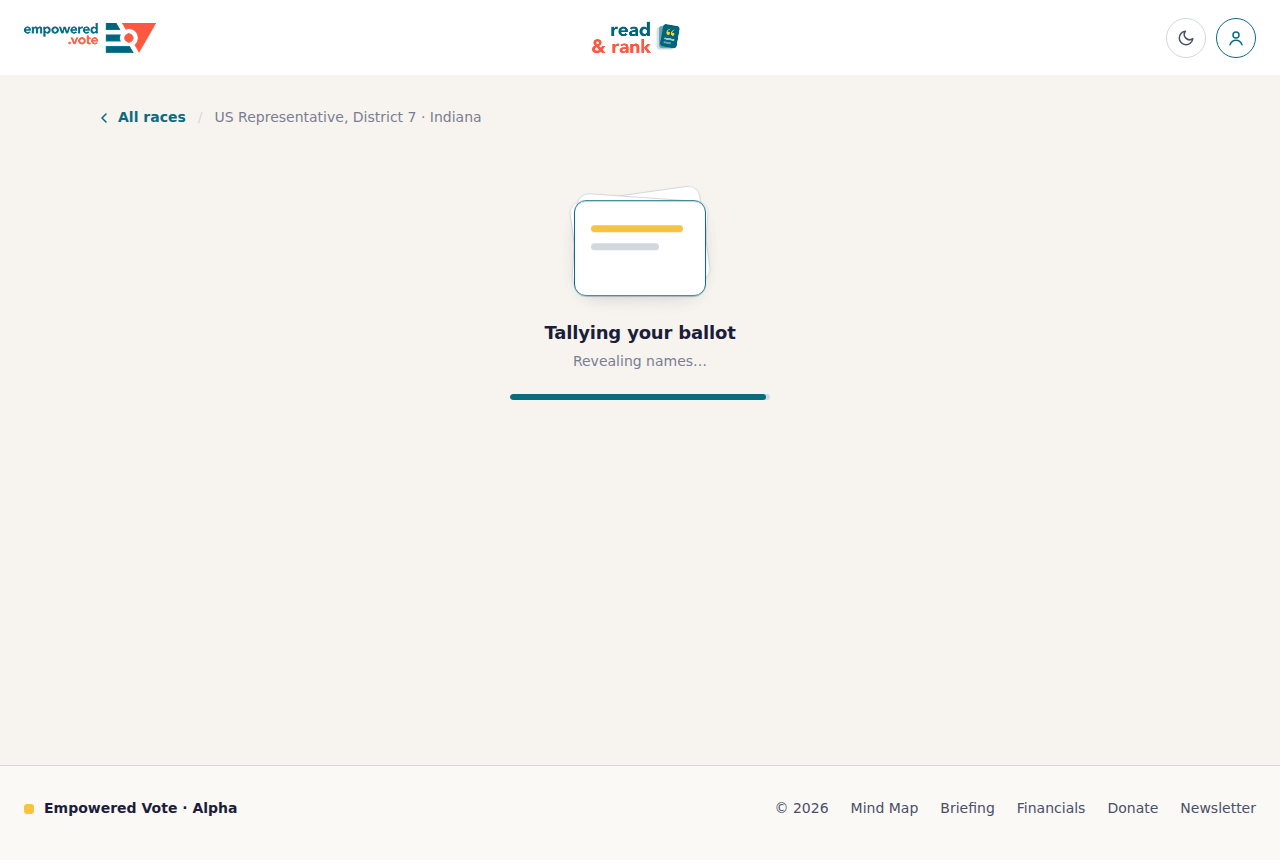
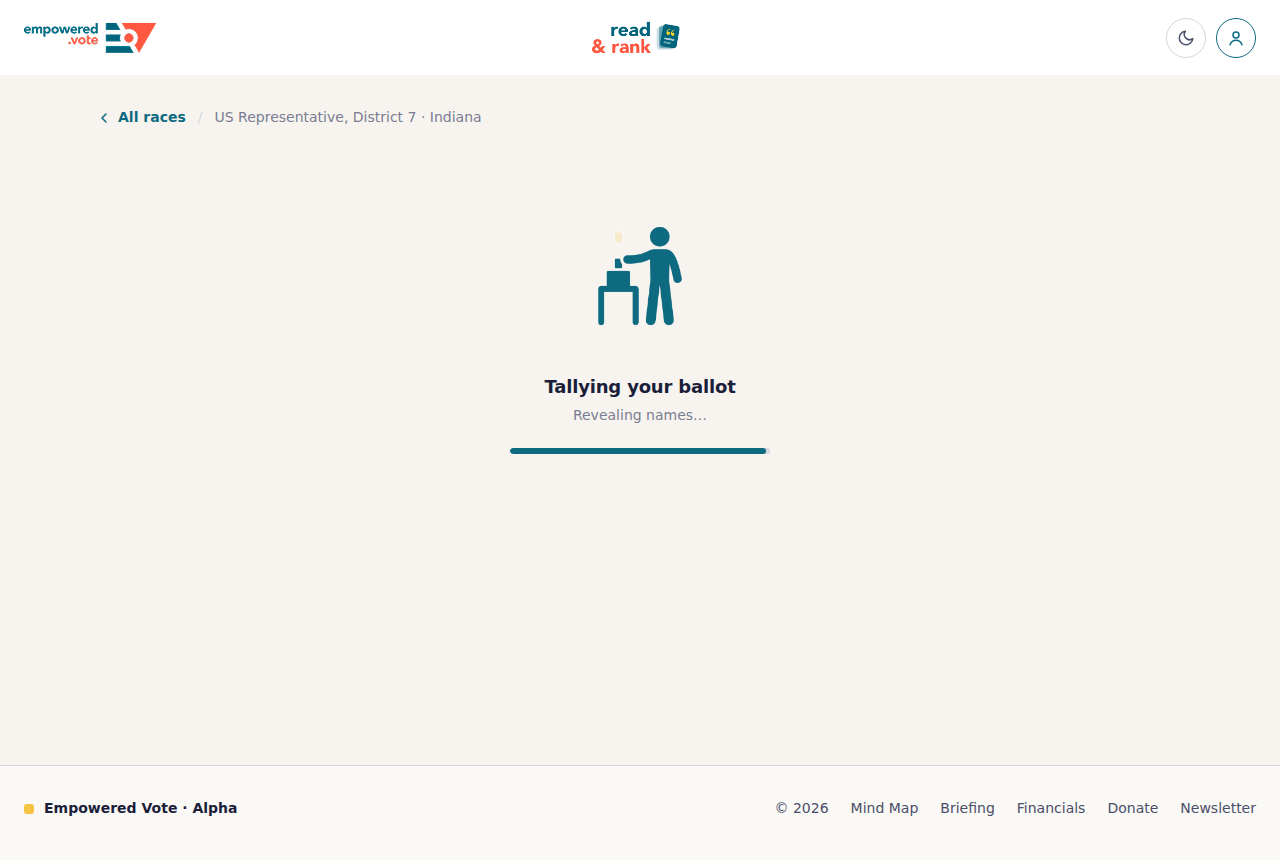
docs: add the empowered.vote ballot figure to the ballot moments
Claude-Session: https://claude.ai/code/session_01DwfCu4GsxXBrSLCryEySUF

Changed region(s): [[0.4062, 0.2116, 0.5938, 0.5442]]

diff --git a/docs/design/readrank-ux-redesign/prototype/index.html b/docs/design/readrank-ux-redesign/prototype/index.html
@@ -870,6 +870,28 @@
   #s-read .bar > .wrap { max-width: none; padding-inline: 0; }
   #s-read .page { max-width: none; }
   @media (max-width: 900px) { #s-read .catnav { margin-inline: calc(-1 * var(--side)); padding-inline: var(--side); } }
+
+  
+  #s-read .ballot-fig { position: relative; display: inline-block; width: 150px; aspect-ratio: 1; flex: none; }
+  #s-read .ballot-fig::before {
+    content: ""; position: absolute; inset: 0; background: var(--fig, var(--teal));
+    -webkit-mask: url("assets/ballot-figure.png") center / contain no-repeat;
+    mask: url("assets/ballot-figure.png") center / contain no-repeat;
+  }
+  #s-read .ballot-fig .slip {
+    position: absolute; left: 33%; top: 37.5%; width: 4.8%; height: 7%; border-radius: 2px;
+    background: var(--yellow); box-shadow: 0 0 0 2px var(--slip-edge, var(--surface)); opacity: 0;
+  }
+  #s-read .ballot-fig.loop .slip { animation: slipdrop 1.5s ease-in infinite; }
+  #s-read .ballot-fig.once .slip { animation: slipdrop 1.2s ease-in var(--slip-delay, .3s) both; }
+  @keyframes slipdrop {
+    0% { transform: translateY(-240%); opacity: 0; }
+    20% { opacity: 1; }
+    70% { transform: translateY(40%); opacity: 1; }
+    100% { transform: translateY(100%); opacity: 0; }
+  }
+  @media (prefers-reduced-motion: reduce) { #s-read .ballot-fig .slip { animation: none !important; opacity: 1; } }
+  #s-read .done-fig { width: 120px; margin-bottom: -8px; }
   /* end EV layout */
 
 
@@ -1205,6 +1227,29 @@
   }
   @media (max-width: 560px) { #s-ballot main.wrap { padding-inline: 16px; } }
   @media (prefers-reduced-motion: reduce) { #s-ballot .col-main > *, #s-ballot .col-side > * { opacity: 1; translate: none; } }
+
+  
+  #s-ballot .ballot-fig { position: relative; display: inline-block; width: 150px; aspect-ratio: 1; flex: none; }
+  #s-ballot .ballot-fig::before {
+    content: ""; position: absolute; inset: 0; background: var(--fig, var(--teal));
+    -webkit-mask: url("assets/ballot-figure.png") center / contain no-repeat;
+    mask: url("assets/ballot-figure.png") center / contain no-repeat;
+  }
+  #s-ballot .ballot-fig .slip {
+    position: absolute; left: 33%; top: 37.5%; width: 4.8%; height: 7%; border-radius: 2px;
+    background: var(--yellow); box-shadow: 0 0 0 2px var(--slip-edge, var(--surface)); opacity: 0;
+  }
+  #s-ballot .ballot-fig.loop .slip { animation: slipdrop 1.5s ease-in infinite; }
+  #s-ballot .ballot-fig.once .slip { animation: slipdrop 1.2s ease-in var(--slip-delay, .3s) both; }
+  @keyframes slipdrop {
+    0% { transform: translateY(-240%); opacity: 0; }
+    20% { opacity: 1; }
+    70% { transform: translateY(40%); opacity: 1; }
+    100% { transform: translateY(100%); opacity: 0; }
+  }
+  @media (prefers-reduced-motion: reduce) { #s-ballot .ballot-fig .slip { animation: none !important; opacity: 1; } }
+  #s-ballot .hero-fig { position: absolute; right: 48px; bottom: -10px; width: 132px; --fig: rgba(247, 244, 239, .92); --slip-edge: #1B1E3B; --slip-delay: 1s; }
+  @media (max-width: 1023px) { #s-ballot .hero-fig { display: none; } }
   /* end EV layout */
 
 
@@ -2724,7 +2769,7 @@
     </nav>
 
     <div class="loading" id="loading" role="status" aria-live="polite">
-      <div class="deck" aria-hidden="true"><i></i><i></i><i></i></div>
+      <span class="ballot-fig loop" aria-hidden="true"><span class="slip"></span></span>
       <div>
         <p>Tallying your ballot</p>
         <small id="load-step">Matching quotes to candidates…</small>
@@ -2736,6 +2781,7 @@
       <section class="hero" style="--i:0" aria-labelledby="ballot-title">
         <p class="hero-eyebrow">U.S. Representative District 7 · You ranked 2 quotes across 2 topics</p>
         <h1 id="ballot-title">Now see <u>who</u> you agreed with</h1>
+        <span class="ballot-fig once hero-fig" aria-hidden="true"><span class="slip"></span></span>
       </section>
 
       <div class="layout">
@@ -3917,7 +3963,7 @@
       revealRow.hidden = true;
       stage.innerHTML =
         '<div class="card entering"><div class="done-card">' +
-          '<span class="done-icon"><svg width="26" height="26" viewBox="0 0 24 24" fill="none" stroke="currentColor" stroke-width="3" stroke-linecap="round" stroke-linejoin="round" aria-hidden="true"><path d="M5 12.5l4.5 4.5L19 7.5"/></svg></span>' +
+          '<span class="ballot-fig once done-fig" aria-hidden="true"><span class="slip"></span></span>' +
           '<h2 tabindex="-1">Topic complete</h2>' +
           '<div class="tally"></div>' +
           '<p>Move on to the next topic, or keep arranging your ranking on the right.</p>' +

diff --git a/docs/design/readrank-ux-redesign/prototype/ballot.html b/docs/design/readrank-ux-redesign/prototype/ballot.html
@@ -335,6 +335,29 @@
   }
   @media (max-width: 560px) { main.wrap { padding-inline: 16px; } }
   @media (prefers-reduced-motion: reduce) { .col-main > *, .col-side > * { opacity: 1; translate: none; } }
+
+  /* Ballot-casting figure from empowered.vote (icons/Sticks/noun_ballot), recolored with a mask */
+  .ballot-fig { position: relative; display: inline-block; width: 150px; aspect-ratio: 1; flex: none; }
+  .ballot-fig::before {
+    content: ""; position: absolute; inset: 0; background: var(--fig, var(--teal));
+    -webkit-mask: url("assets/ballot-figure.png") center / contain no-repeat;
+    mask: url("assets/ballot-figure.png") center / contain no-repeat;
+  }
+  .ballot-fig .slip {
+    position: absolute; left: 33%; top: 37.5%; width: 4.8%; height: 7%; border-radius: 2px;
+    background: var(--yellow); box-shadow: 0 0 0 2px var(--slip-edge, var(--surface)); opacity: 0;
+  }
+  .ballot-fig.loop .slip { animation: slipdrop 1.5s ease-in infinite; }
+  .ballot-fig.once .slip { animation: slipdrop 1.2s ease-in var(--slip-delay, .3s) both; }
+  @keyframes slipdrop {
+    0% { transform: translateY(-240%); opacity: 0; }
+    20% { opacity: 1; }
+    70% { transform: translateY(40%); opacity: 1; }
+    100% { transform: translateY(100%); opacity: 0; }
+  }
+  @media (prefers-reduced-motion: reduce) { .ballot-fig .slip { animation: none !important; opacity: 1; } }
+  .hero-fig { position: absolute; right: 48px; bottom: -10px; width: 132px; --fig: rgba(247, 244, 239, .92); --slip-edge: #1B1E3B; --slip-delay: 1s; }
+  @media (max-width: 1023px) { .hero-fig { display: none; } }
   /* end EV layout */
 </style>
 
@@ -369,7 +392,7 @@
     </nav>
 
     <div class="loading" id="loading" role="status" aria-live="polite">
-      <div class="deck" aria-hidden="true"><i></i><i></i><i></i></div>
+      <span class="ballot-fig loop" aria-hidden="true"><span class="slip"></span></span>
       <div>
         <p>Tallying your ballot</p>
         <small id="load-step">Matching quotes to candidates…</small>
@@ -381,6 +404,7 @@
       <section class="hero" style="--i:0" aria-labelledby="ballot-title">
         <p class="hero-eyebrow">U.S. Representative District 7 · You ranked 2 quotes across 2 topics</p>
         <h1 id="ballot-title">Now see <u>who</u> you agreed with</h1>
+        <span class="ballot-fig once hero-fig" aria-hidden="true"><span class="slip"></span></span>
       </section>
 
       <div class="layout">

diff --git a/docs/design/readrank-ux-redesign/prototype/read.html b/docs/design/readrank-ux-redesign/prototype/read.html
@@ -357,6 +357,28 @@
   .bar > .wrap { max-width: none; padding-inline: 0; }
   .page { max-width: none; }
   @media (max-width: 900px) { .catnav { margin-inline: calc(-1 * var(--side)); padding-inline: var(--side); } }
+
+  /* Ballot-casting figure from empowered.vote (icons/Sticks/noun_ballot), recolored with a mask */
+  .ballot-fig { position: relative; display: inline-block; width: 150px; aspect-ratio: 1; flex: none; }
+  .ballot-fig::before {
+    content: ""; position: absolute; inset: 0; background: var(--fig, var(--teal));
+    -webkit-mask: url("assets/ballot-figure.png") center / contain no-repeat;
+    mask: url("assets/ballot-figure.png") center / contain no-repeat;
+  }
+  .ballot-fig .slip {
+    position: absolute; left: 33%; top: 37.5%; width: 4.8%; height: 7%; border-radius: 2px;
+    background: var(--yellow); box-shadow: 0 0 0 2px var(--slip-edge, var(--surface)); opacity: 0;
+  }
+  .ballot-fig.loop .slip { animation: slipdrop 1.5s ease-in infinite; }
+  .ballot-fig.once .slip { animation: slipdrop 1.2s ease-in var(--slip-delay, .3s) both; }
+  @keyframes slipdrop {
+    0% { transform: translateY(-240%); opacity: 0; }
+    20% { opacity: 1; }
+    70% { transform: translateY(40%); opacity: 1; }
+    100% { transform: translateY(100%); opacity: 0; }
+  }
+  @media (prefers-reduced-motion: reduce) { .ballot-fig .slip { animation: none !important; opacity: 1; } }
+  .done-fig { width: 120px; margin-bottom: -8px; }
   /* end EV layout */
 </style>
 
@@ -591,7 +613,7 @@
       revealRow.hidden = true;
       stage.innerHTML =
         '<div class="card entering"><div class="done-card">' +
-          '<span class="done-icon"><svg width="26" height="26" viewBox="0 0 24 24" fill="none" stroke="currentColor" stroke-width="3" stroke-linecap="round" stroke-linejoin="round" aria-hidden="true"><path d="M5 12.5l4.5 4.5L19 7.5"/></svg></span>' +
+          '<span class="ballot-fig once done-fig" aria-hidden="true"><span class="slip"></span></span>' +
           '<h2 tabindex="-1">Topic complete</h2>' +
           '<div class="tally"></div>' +
           '<p>Move on to the next topic, or keep arranging your ranking on the right.</p>' +

diff --git a/docs/design/readrank-ux-redesign/README.md b/docs/design/readrank-ux-redesign/README.md
@@ -49,5 +49,5 @@ Margins, borders and spacing follow the ev-ui values Treasury Tracker uses: head
 - `prototype/index.html` — the combined, clickable prototype (open this).
 - `prototype/*.html` — one file per screen (landing, browse, issues, read, ballot, compass, stances, ready).
 - `prototype/build_flow.py` — combines the screen files into `index.html` (`python3 build_flow.py`). Its output omits the `<!doctype html>` / `<head>` wrapper, which was added to the checked-in `index.html` so it opens directly in a browser.
-- `prototype/assets/` — the official Empowered Vote and Read & Rank logos, unchanged.
+- `prototype/assets/` — the official Empowered Vote and Read & Rank logos, unchanged, and `ballot-figure.png`, the ballot-casting figure from the empowered.vote homepage (`ev-landing/icons/Sticks/noun_ballot_3139174.png`, a Noun Project icon — confirm the team's license covers reuse here). It is recolored with a CSS mask on the ballot loading step, the Topic complete card and the full-ballot banner.
 - `screenshots/` — desktop captures at 1280px wide. They were captured without network access, so text renders in a fallback font instead of Manrope.
